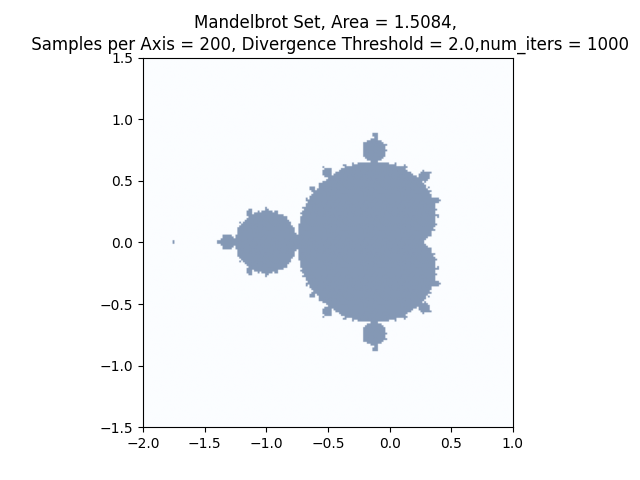
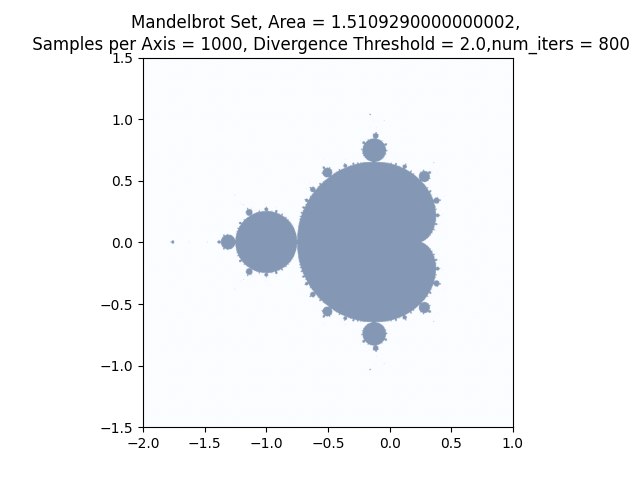
commit

diff --git a/src/main.py b/src/main.py
@@ -51,4 +51,4 @@ plt.imshow(
 )
 plt.title(f"Mandelbrot Set, Area = {area}, \n Samples per Axis = {samples_per_axis}, Divergence Threshold = {divergence_threshold},num_iters = {num_iters}")
 plt.savefig(os.path.join(working_dir, "area_demo.png"))
-print(area)
+print(f"{area:.15f}")
